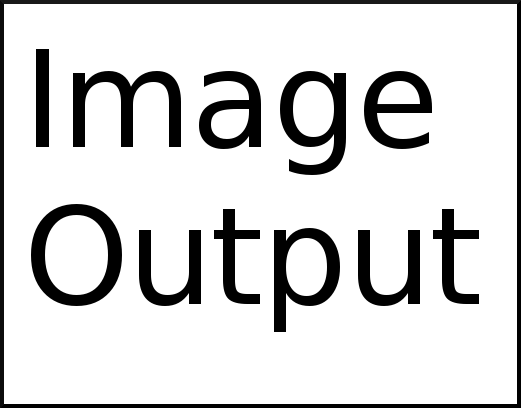
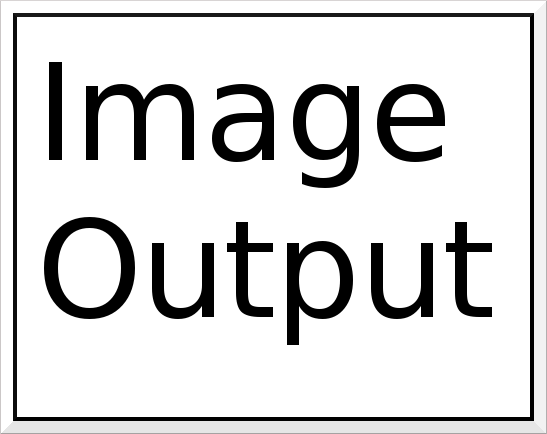
slightly edited the image output to fit the page better and to function more properly

Changed region(s): [[0.0, 0.0, 1.0, 1.0], [0.0614, 0.1176, 0.8292, 0.4412]]

diff --git a/web/js/algorun-editors.js b/web/js/algorun-editors.js
@@ -39,6 +39,7 @@ function add_image(output){
 		a = $("<a data-toggle=tab href=#" + id + ">" + id + "</a>")
 		a.attr('id', 'image')
 		div = $("<div id=" + id + " class=tab-pane fade></div>")
+		div.attr("style", "width: ")
 		img = $("<img src=/images/imageOutput.png>")
 		div.append(img)
 		tab_list.append(div)
@@ -111,12 +112,10 @@ $.get( "../algorun_info/manifest.json", function( data ) {
         for(i in data['algo_output']){
         	name = data['algo_output'][i].name
         	filename = data['algo_output'][i].src
-        	if(filename.includes('.')){
-        		filename = filename.slice(0, filename.indexOf('.'))
-        	}
         	output_string += name + '=' + filename + "&"
         }
         output_string = output_string.slice(0, output_string.length - 1);
+        alert(output_string)
     }
 
     if(input_string == ""){
@@ -141,8 +140,12 @@ $.get( "../algorun_info/manifest.json", function( data ) {
 		output_name = output_arr[i]
 		output_src = output_name.split("=")[1]
 		png = false
-		if(output_src == 'image'){
-			png = true
+		if(output_src.includes(".")){
+			output_arr = output_name.split(".")
+			output_name = output_arr[0]
+			if(output_arr[1] == "png" or output_arr[1] == 'jpg'){
+				png = true
+			}
 		}
 		if(png){
 			add_image(output_name)

diff --git a/web/css/main.css b/web/css/main.css
@@ -2677,7 +2677,7 @@ span.color-red {
   margin-top: 80px;
 }
 
-.output_image {
-  max-width: 100%;
-  max-height: 100%;
+.tab-pane > img {
+  width: 100%;
+  height: 400px;
 }
